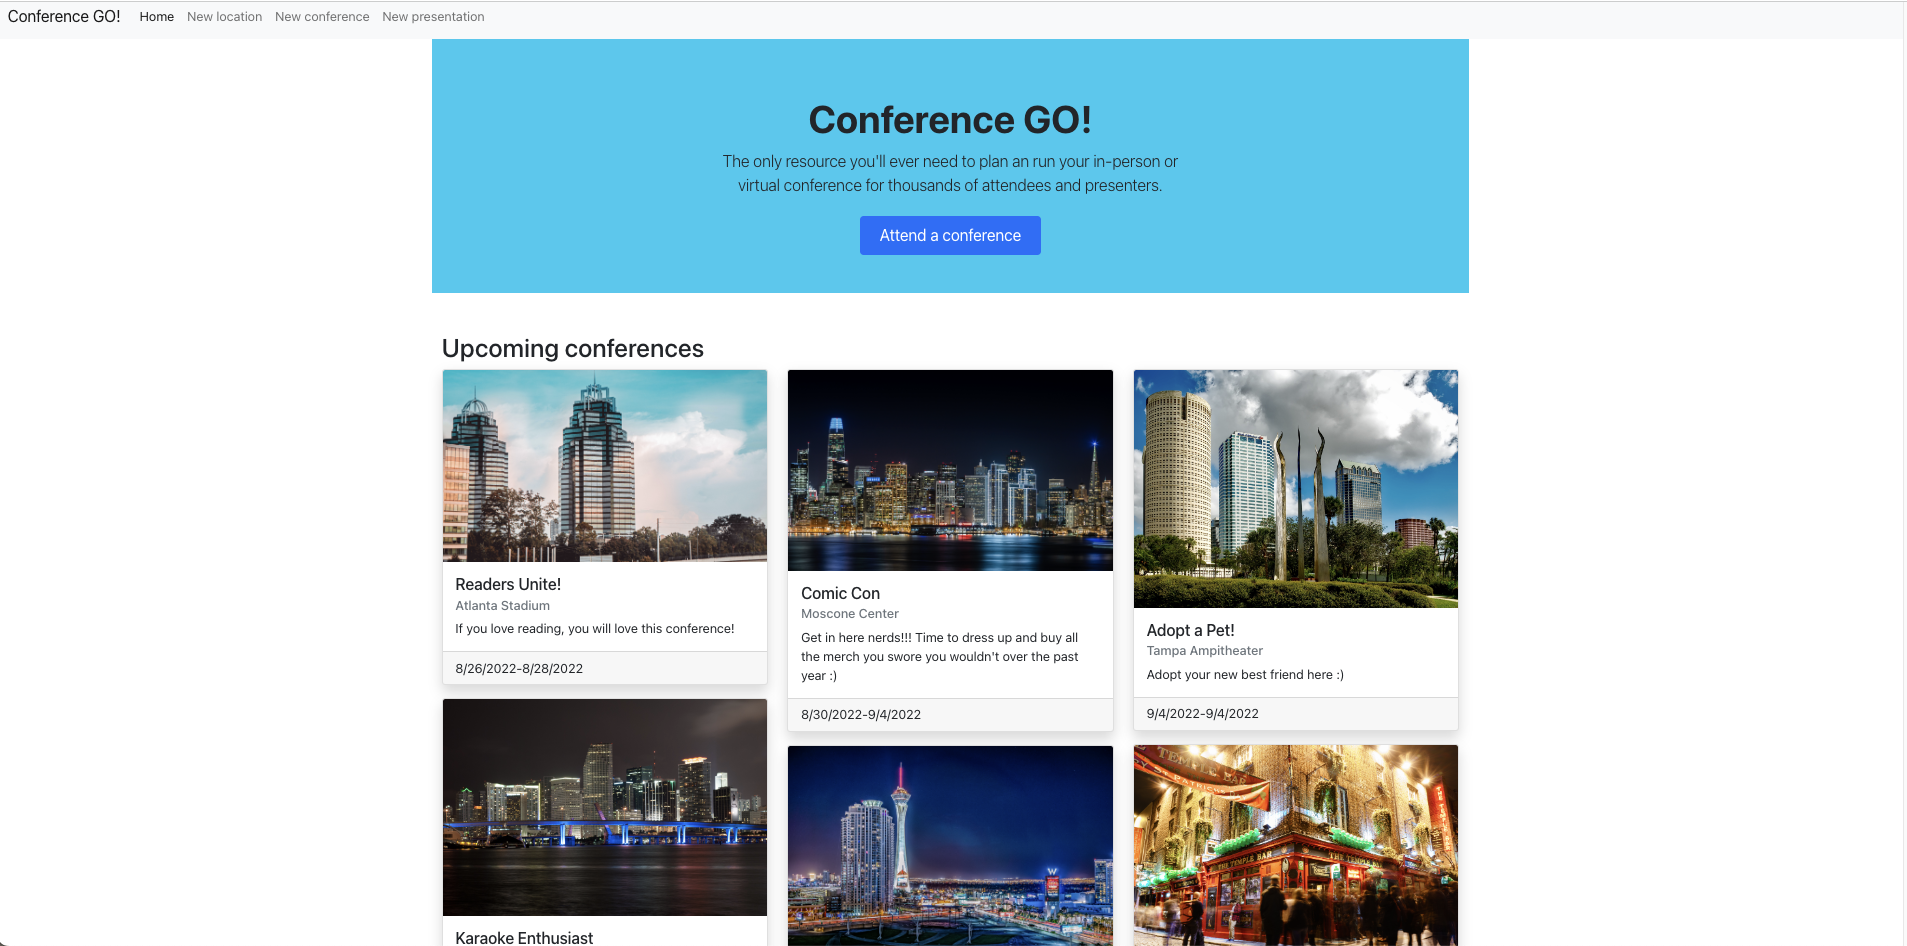
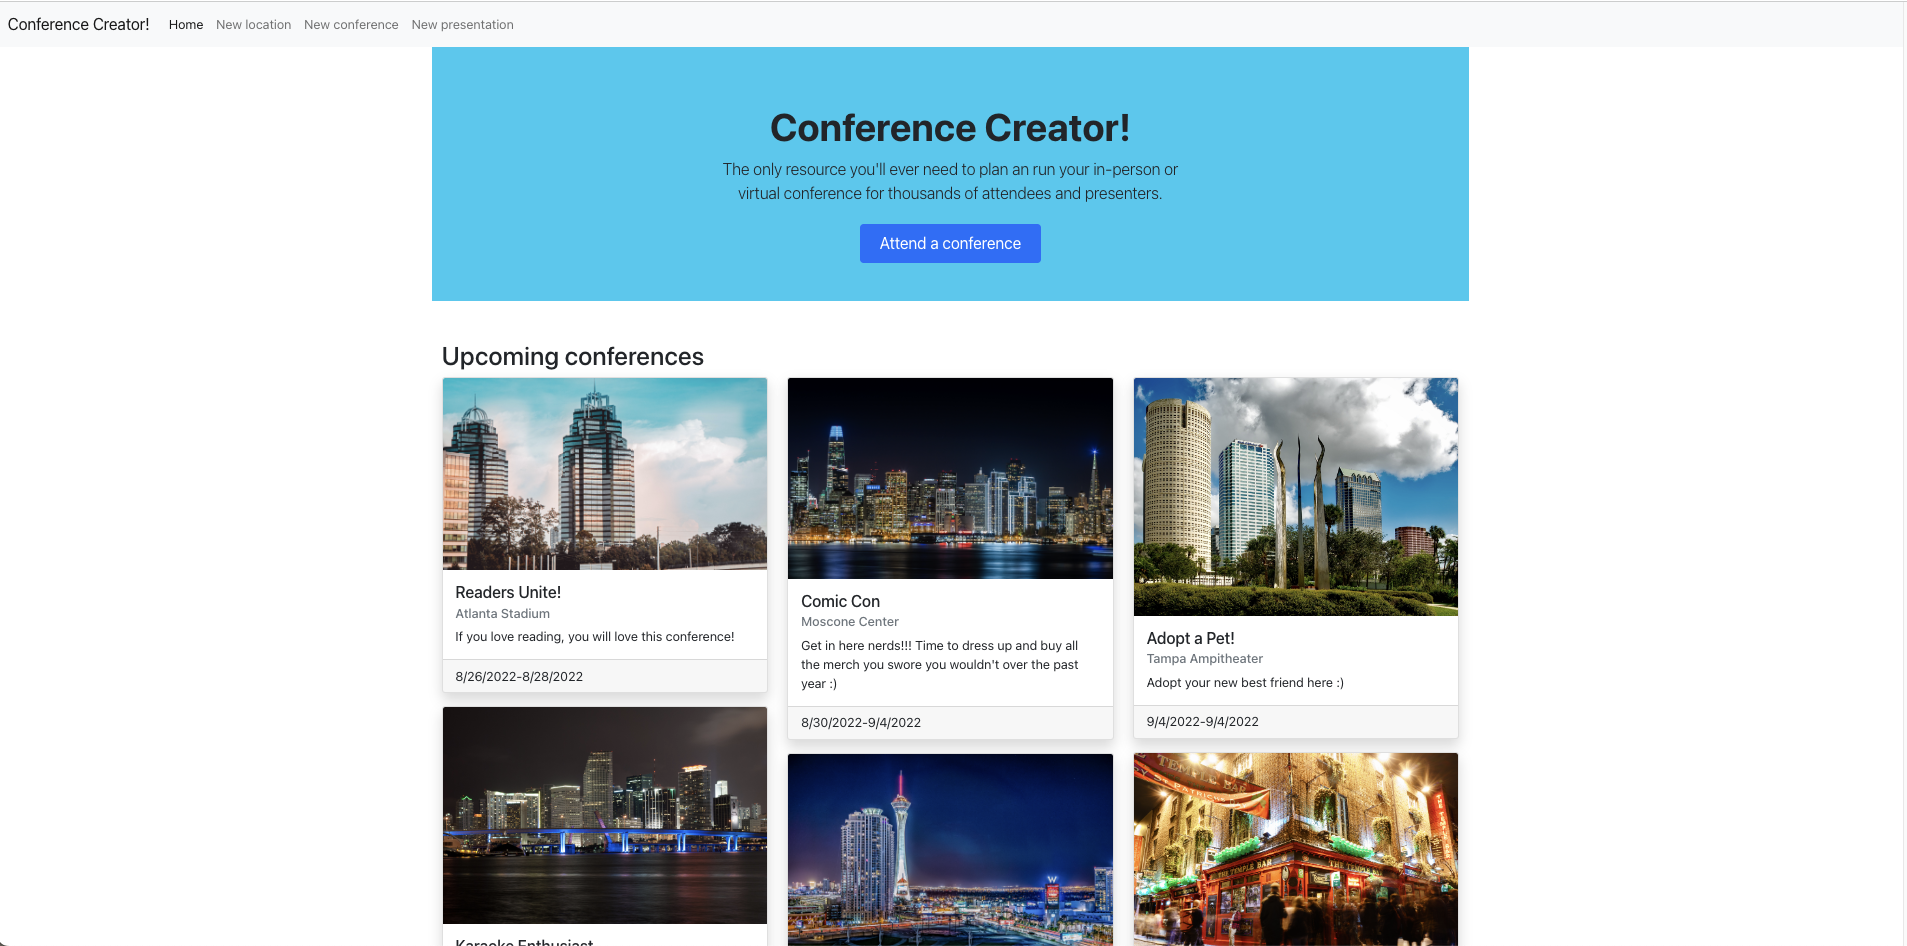
updated read me

Changed region(s): [[0.2166, 0.3066, 0.7735, 1.0], [0.3713, 0.092, 0.6188, 0.2759], [0.0, 0.0, 0.7735, 0.0613]]

diff --git a/ghi/attend-conference.html b/ghi/attend-conference.html
@@ -10,7 +10,7 @@
       integrity="sha384-1BmE4kWBq78iYhFldvKuhfTAU6auU8tT94WrHftjDbrCEXSU1oBoqyl2QvZ6jIW3"
       crossorigin="anonymous"
     />
-    <title>Sign Up For A Conference :: Conference GO!</title>
+    <title>Sign Up For A Conference :: Conference Creator!</title>
     <script type="module" src="js/attend-conference.js"></script>
   </head>
 
@@ -18,7 +18,7 @@
     <header>
       <nav class="navbar navbar-expand-lg navbar-light bg-light">
         <div class="container-fluid">
-          <a class="navbar-brand" href="/">Conference GO!</a>
+          <a class="navbar-brand" href="/">Conference Creator!</a>
           <button
             class="navbar-toggler"
             type="button"
@@ -81,83 +81,6 @@
       </nav>
     </header>
     <div class="container">
-      <!-- <div class="my-5">
-        <div class="row">
-          <div class="col col-sm-auto">
-            <img
-              width="300"
-              class="bg-white rounded shadow d-block mx-auto mb-4"
-              src="./images/logo.svg"
-            />
-          </div>
-          <div class="col">
-            <div class="card shadow">
-              <div class="card-body">
-                <form id="create-attendee-form">
-                  <h1 class="card-title">It's Conference Time!</h1>
-                  <p class="mb-3">
-                    Please choose which conference you'd like to attend.
-                  </p>
-                  <div
-                    class="d-flex justify-content-center mb-3"
-                    id="loading-conference-spinner"
-                  >
-                    <div class="spinner-grow text-secondary" role="status">
-                      <span class="visually-hidden">Loading...</span>
-                    </div>
-                  </div>
-                  <div class="mb-3">
-                    <select
-                      name="conference"
-                      id="conference"
-                      class="form-select d-none"
-                      required
-                    >
-                      <option value="">Choose a conference</option>
-                    </select>
-                  </div>
-                  <p class="mb-3">Now, tell us about yourself.</p>
-                  <div class="row">
-                    <div class="col">
-                      <div class="form-floating mb-3">
-                        <input
-                          required
-                          placeholder="Your full name"
-                          type="text"
-                          id="name"
-                          name="name"
-                          class="form-control"
-                        />
-                        <label for="name">Your full name</label>
-                      </div>
-                    </div>
-                    <div class="col">
-                      <div class="form-floating mb-3">
-                        <input
-                          required
-                          placeholder="Your email address"
-                          type="email"
-                          id="email"
-                          name="email"
-                          class="form-control"
-                        />
-                        <label for="email">Your email address</label>
-                      </div>
-                    </div>
-                  </div>
-                  <button class="btn btn-lg btn-primary">I'm going!</button>
-                </form>
-                <div
-                  class="alert alert-success d-none mb-0"
-                  id="success-message"
-                >
-                  Congratulations! You're all signed up!
-                </div>
-              </div>
-            </div>
-          </div>
-        </div>
-      </div> -->
     </div>
   </body>
 </html>

diff --git a/ghi/new-location.html b/ghi/new-location.html
@@ -70,56 +70,7 @@
       </nav>
     </header>
     <main>
-      <div class="container">
-        <!-- <div class="row">
-          <div class="offset-3 col-6">
-            <div class="shadow p-4 mt-4">
-              <h1>Create a new location</h1>
-              <form id="create-location-form">
-                <div class="form-floating mb-3">
-                  <input
-                    placeholder="Name"
-                    required
-                    type="text"
-                    name="name"
-                    id="name"
-                    class="form-control"
-                  />
-                  <label for="name">Name</label>
-                </div>
-                <div class="form-floating mb-3">
-                  <input
-                    placeholder="Room count"
-                    required
-                    type="number"
-                    name="room_count"
-                    id="room_count"
-                    class="form-control"
-                  />
-                  <label for="room_count">Room count</label>
-                </div>
-                <div class="form-floating mb-3">
-                  <input
-                    placeholder="City"
-                    required
-                    type="text"
-                    name="city"
-                    id="city"
-                    class="form-control"
-                  />
-                  <label for="city">City</label>
-                </div>
-                <div class="mb-3">
-                  <select required id="state" name="state" class="form-select">
-                    <option selected value="">Choose a state</option>
-                  </select>
-                </div>
-                <button class="btn btn-primary">Create</button>
-              </form>
-            </div>
-          </div>
-        </div> -->
-      </div>
+      <div class="container"></div>
     </main>
   </body>
 </html>

diff --git a/ghi/new-presentation.html b/ghi/new-presentation.html
@@ -10,14 +10,14 @@
       integrity="sha384-1BmE4kWBq78iYhFldvKuhfTAU6auU8tT94WrHftjDbrCEXSU1oBoqyl2QvZ6jIW3"
       crossorigin="anonymous"
     />
-    <title>New Presentation :: Conference GO!</title>
+    <title>New Presentation :: Conference Creator!</title>
     <script type="module" src="js/new-presentation.js"></script>
   </head>
   <body>
     <header>
       <nav class="navbar navbar-expand-lg navbar-light bg-light">
         <div class="container-fluid">
-          <a class="navbar-brand" href="/">Conference GO!</a>
+          <a class="navbar-brand" href="/">Conference Creator!!</a>
           <button
             class="navbar-toggler"
             type="button"

diff --git a/ghi/app/src/MainPage.js b/ghi/app/src/MainPage.js
@@ -99,7 +99,7 @@ class MainPage extends React.Component {
             alt=""
             width="600"
           />
-          <h1 className="display-5 fw-bold">Conference GO!</h1>
+          <h1 className="display-5 fw-bold">Conference Creator!</h1>
           <div className="col-lg-6 mx-auto">
             <p className="lead mb-4">
               The only resource you'll ever need to plan an run your in-person

diff --git a/ghi/index.html b/ghi/index.html
@@ -67,7 +67,7 @@
           alt=""
           width="600"
         />
-        <h1 class="display-5 fw-bold">Conference GO!</h1>
+        <h1 class="display-5 fw-bold">Conference Creator!</h1>
         <div class="col-lg-6 mx-auto">
           <p class="lead mb-4">
             The only resource you'll ever need to plan an run your in-person or

diff --git a/ghi/app/src/Nav.js b/ghi/app/src/Nav.js
@@ -6,7 +6,7 @@ function Nav() {
     <nav className="navbar navbar-expand-lg navbar-light bg-light">
       <div className="container-fluid">
         <NavLink className="navbar-brand" to="#">
-          Conference GO!
+          Conference Creator!
         </NavLink>
         <button
           className="navbar-toggler"
